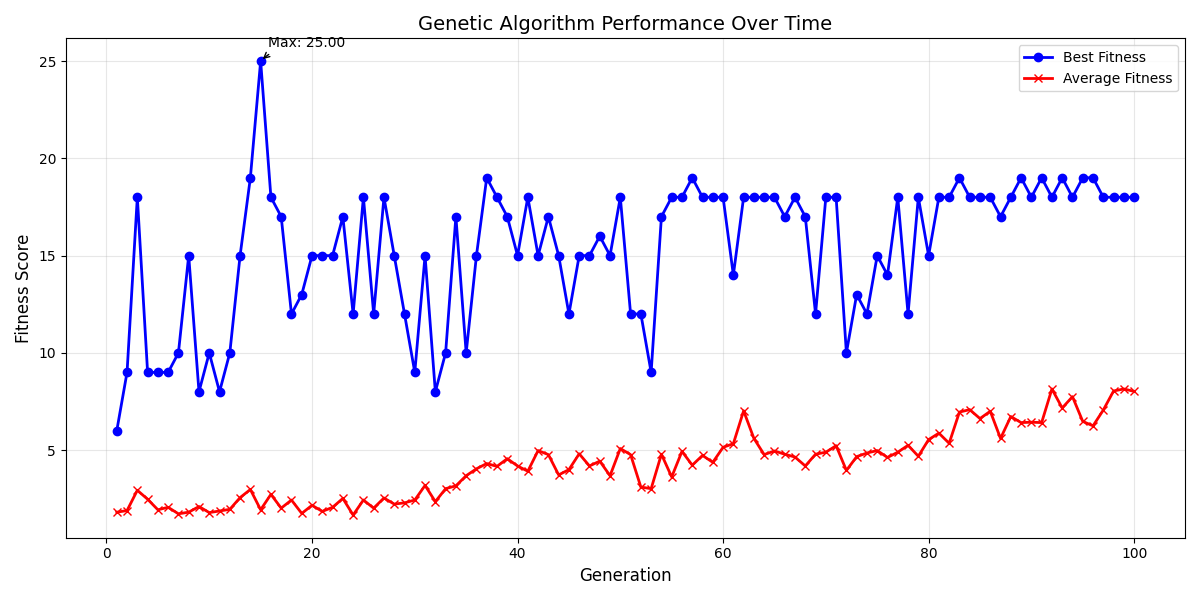
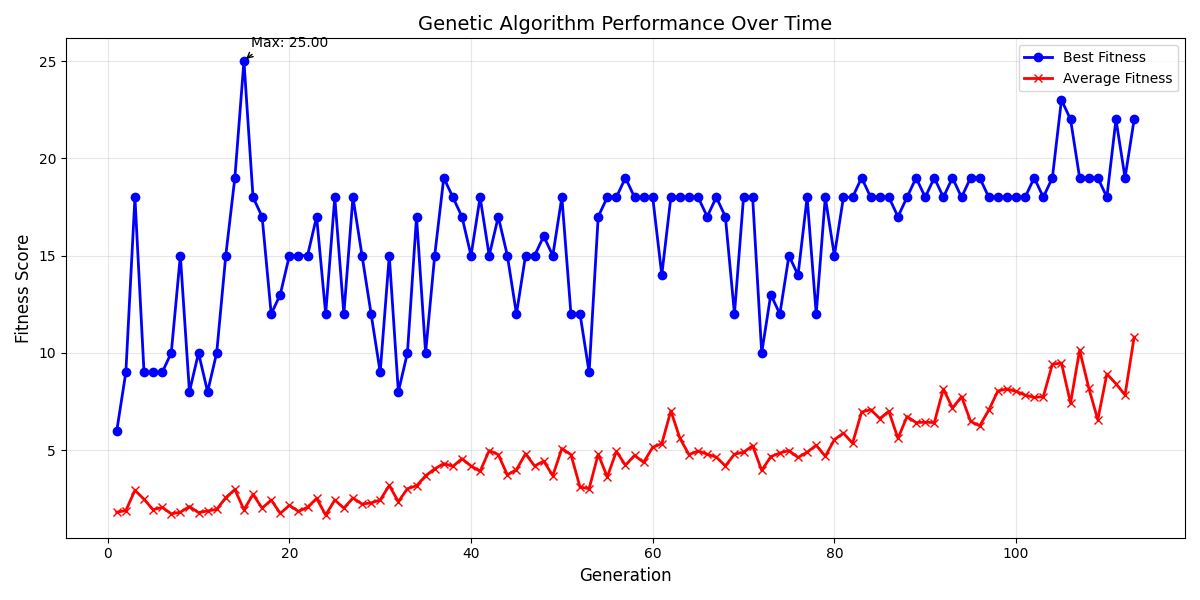
more refinements to UI

diff --git a/main.py b/main.py
@@ -18,7 +18,7 @@ from backend.minecraft_agents import networkCommander, start_agents
 from save_figure import save_figure
 from autofocus_windows import autofocus_minecraft
 # Configuration
-STARTING_GENERATIONS = 100  # need to replace this with getting most recent gen from file
+STARTING_GENERATIONS = 112  # need to replace this with getting most recent gen from file
 NUM_AGENTS = 48
 NUM_GENERATIONS = 100
 SAVE_EVERY = 1  # Save genes every N generations

diff --git a/autofocus_windows.py b/autofocus_windows.py
@@ -122,7 +122,7 @@ def autofocus_minecraft():
                 print(f"Failed to interact with window: {title}")
         
         # Wait a moment before moving to the next window
-        time.sleep(0.5)
+        time.sleep(0.1)
     
     print("All Minecraft windows processed.")
 
